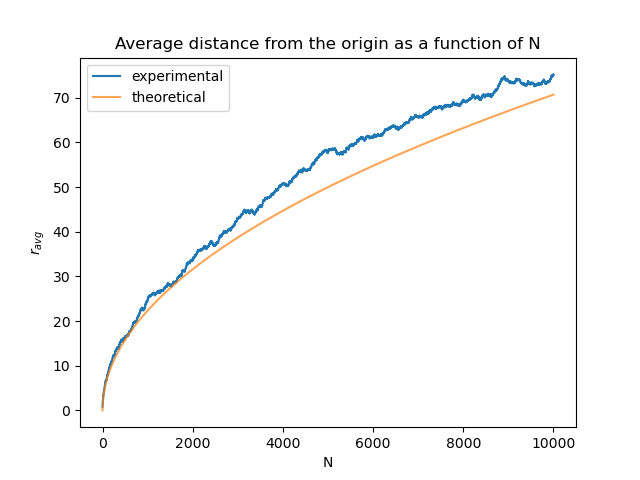
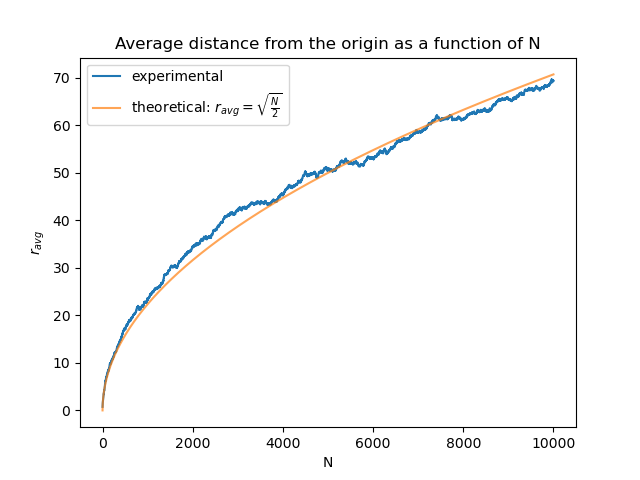
Problem 4 part 2

diff --git a/04/04_04_2.py b/04/04_04_2.py
@@ -11,6 +11,8 @@
 from pylab import *
 from random import *
 
+from numpy.random import choice
+
 seed(None)                  # Seed generator, None => use system clock
 nwalks = 100   # of walks (trials)
 nsteps = 10000   # of stepsfor each walk
@@ -22,13 +24,18 @@ for w in range(0,nwalks):   # iterate over trials
     x=0; y=0   # Start at origin
 
     for i in range(0, nsteps):
-        x += (random() - 0.5)*2.                        # -1 =< dx =< 1
-        y += (random() - 0.5)*2.                        # -1 =< dy =< 1
+
+        directions = [[0., 1.], [0., -1.], [1., 0.], [-1., 0.]]
+        dir_choice = choice(range(4))
+        dx = directions[dir_choice][0]
+        dy = directions[dir_choice][1]
+
+        x += dx                        # -1 =< dx =< 1
+        y += dy                        # -1 =< dy =< 1
         r = sqrt(x*x+y*y)   # distance after i steps
         ravg[i] += r     # compute average distance after i steps
 
-        #ravgt[i] += sqrt(i)/sqrt(2)
-        ravgt[i] += sqrt(i)*sqrt(1/2)
+        ravgt[i] += sqrt(i)*.9
 
 ravg = ravg / nwalks
 ravgt = ravgt / nwalks
@@ -39,5 +46,5 @@ legend()
 title('Average distance from the origin as a function of N')
 xlabel('N')
 ylabel(r'$r_{avg}$')
-#show()
-savefig('04_04.png')
+show()
+#savefig('04_04_2.png')
